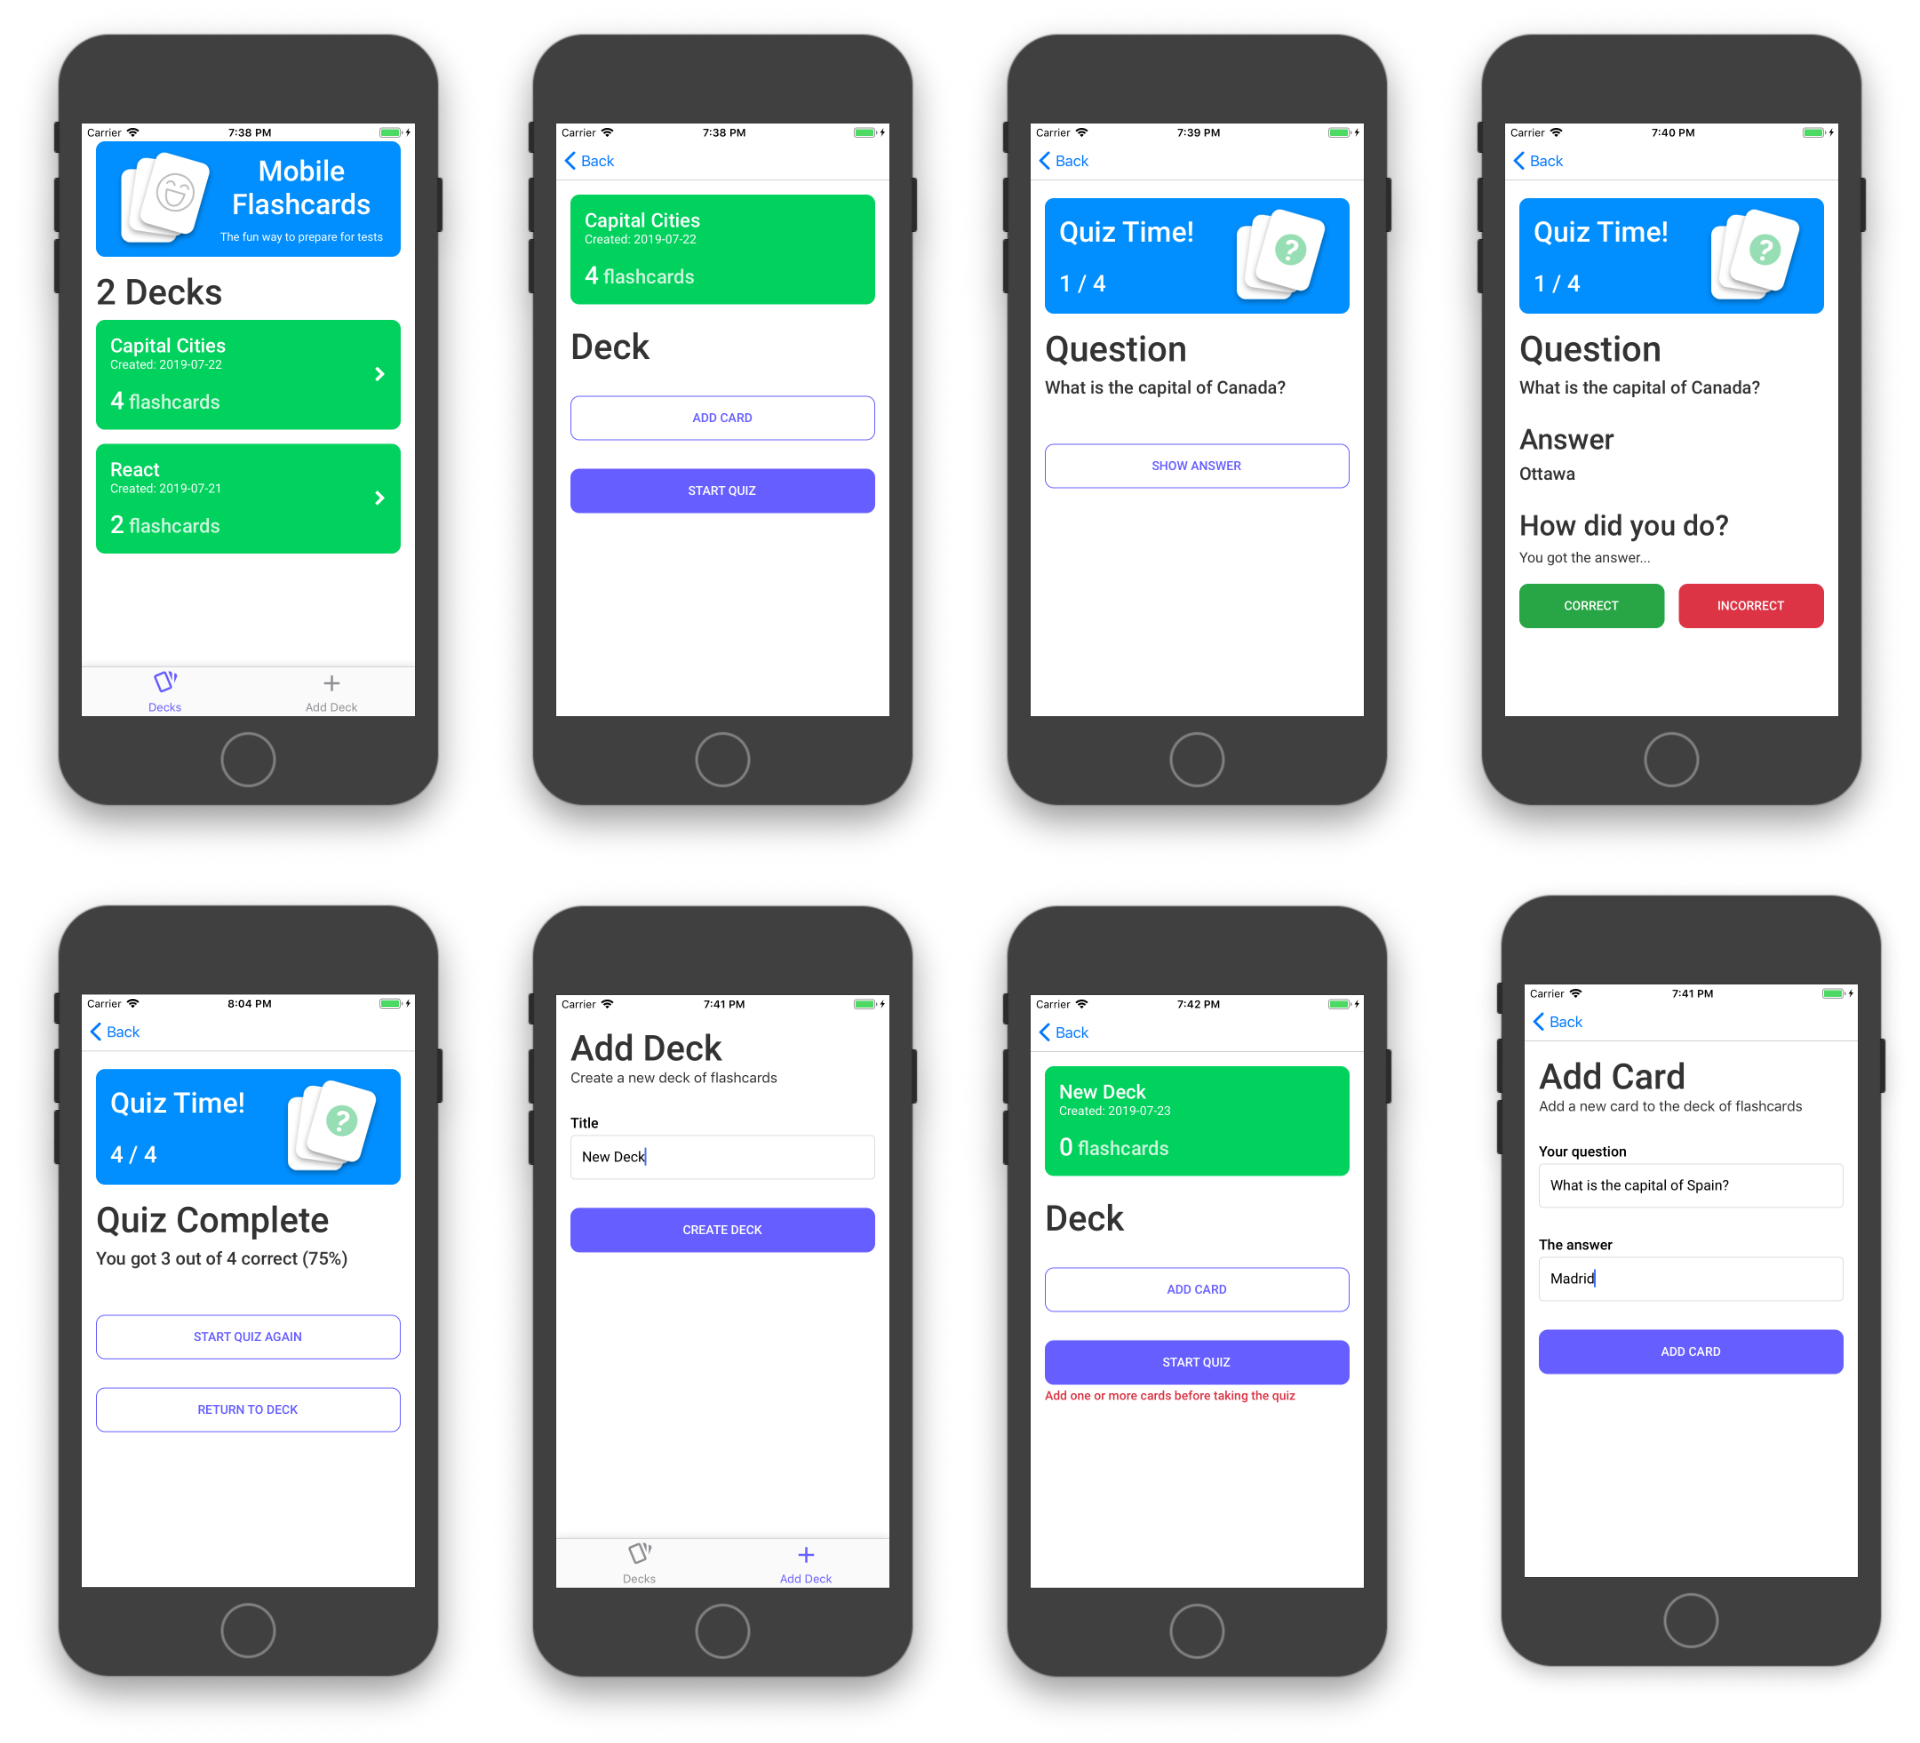
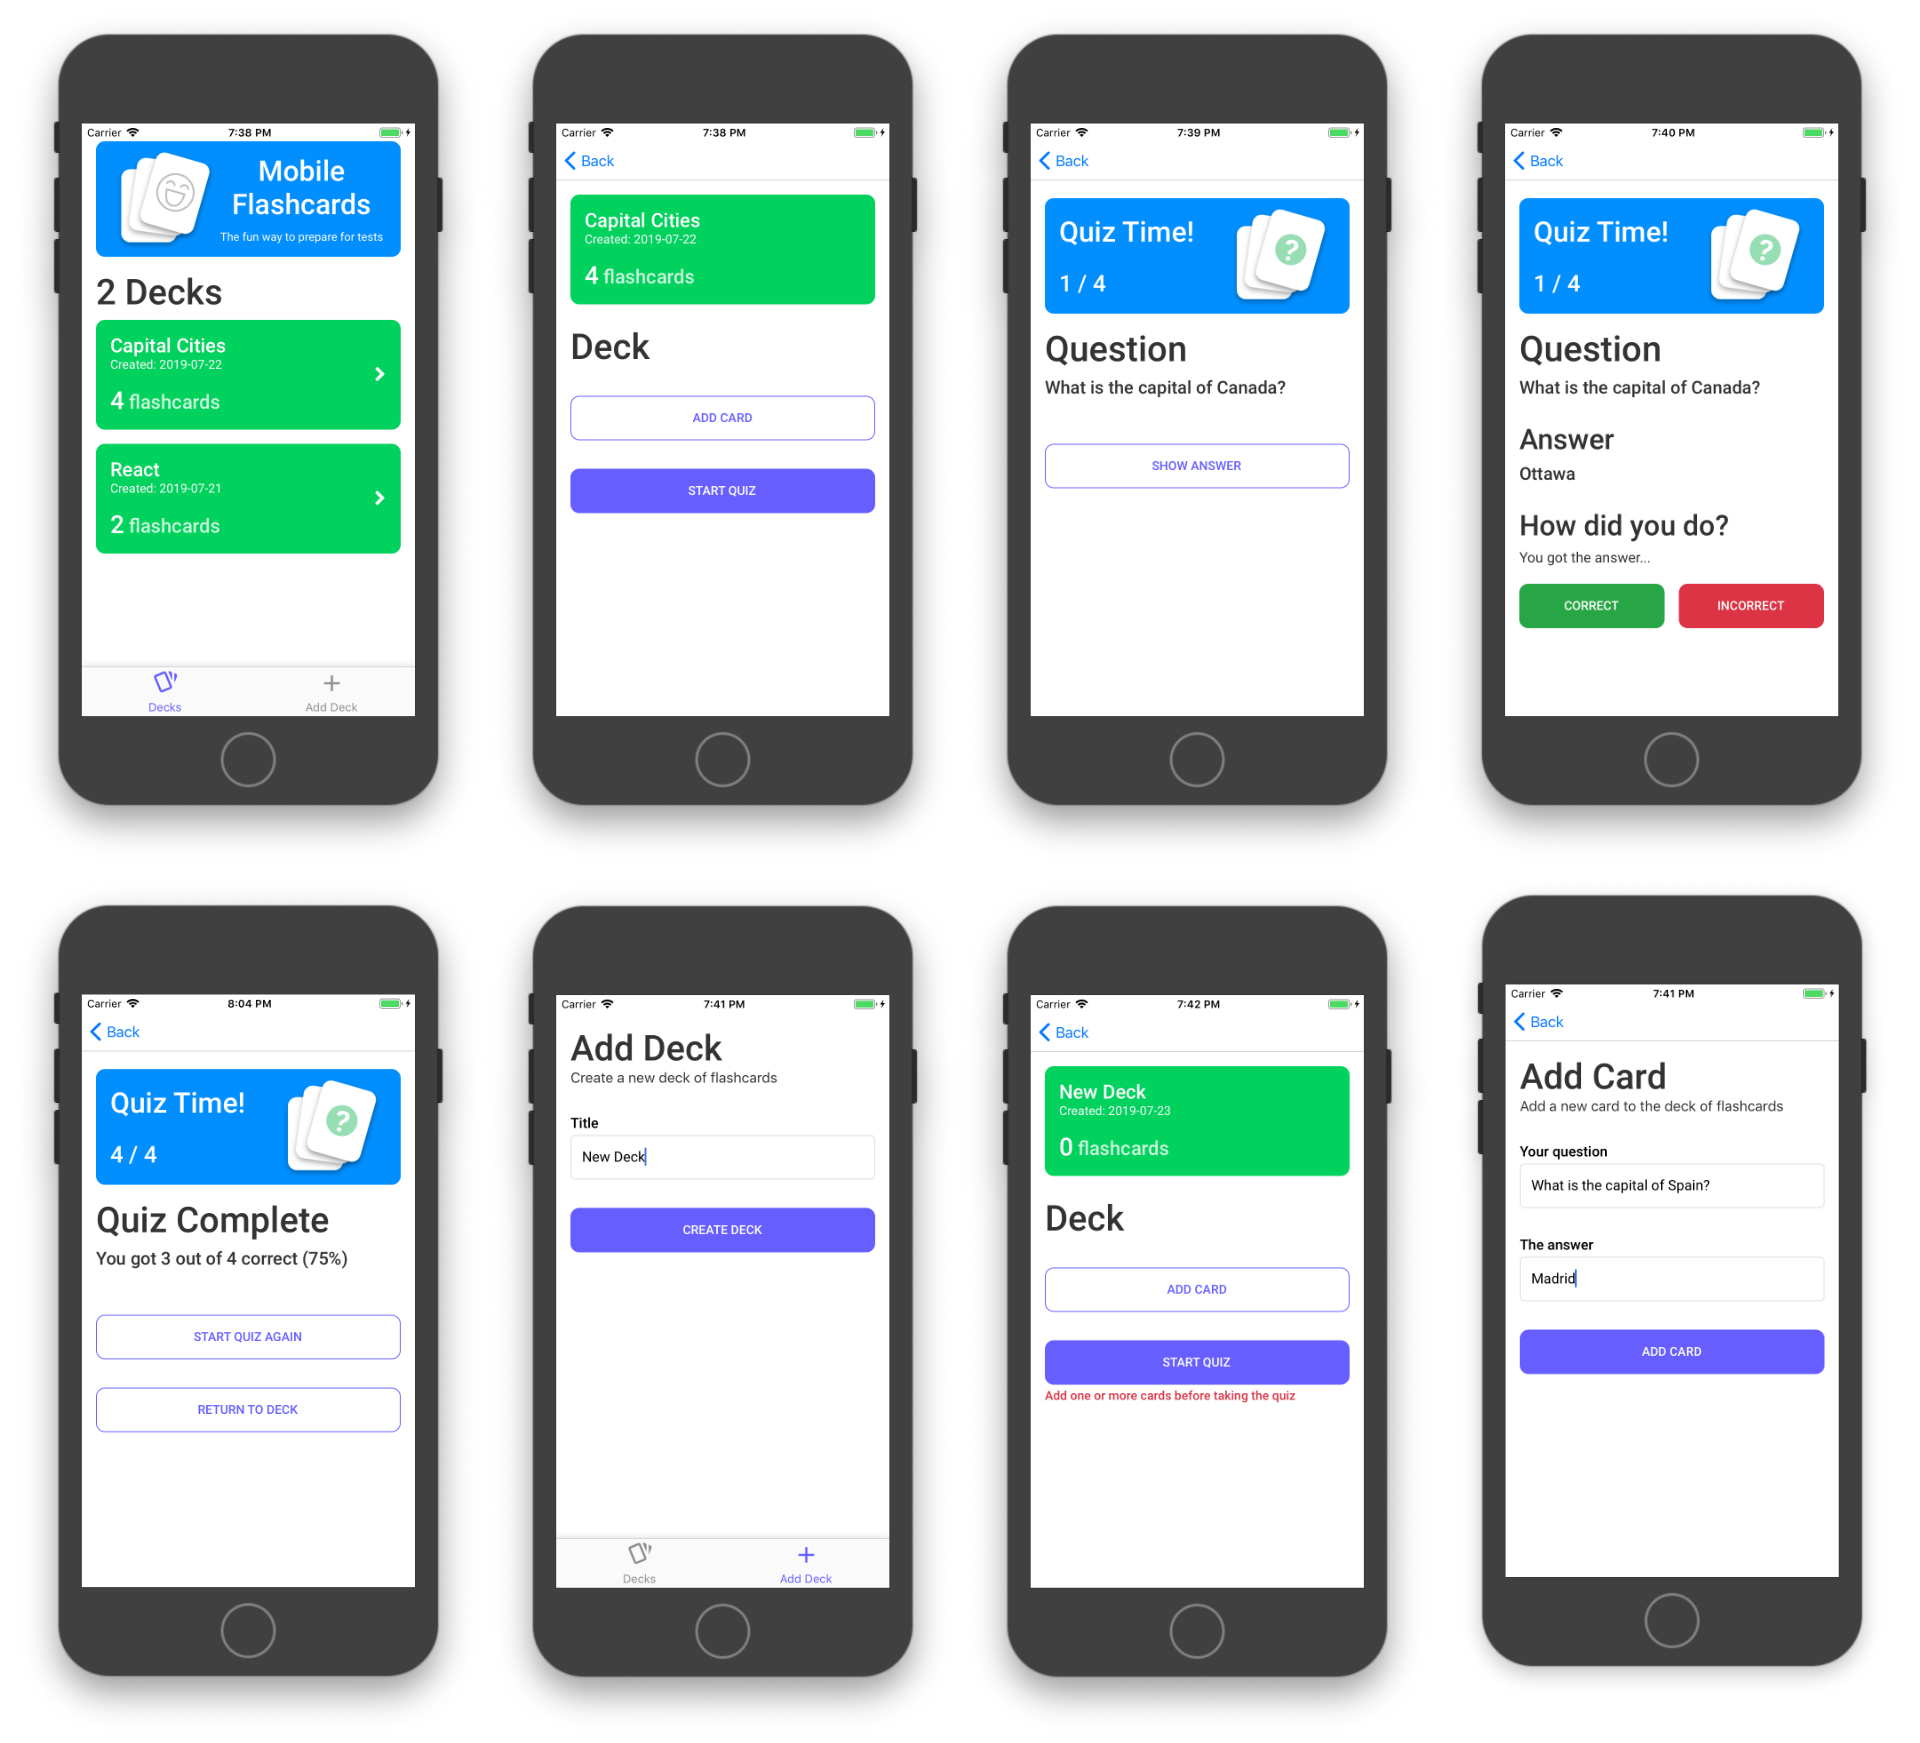
Minor styling tweaks

Changed region(s): [[0.75, 0.5267, 1.0, 0.9604], [0.9375, 0.4957, 0.9688, 0.5267], [0.7812, 0.4957, 0.8125, 0.5267]]

diff --git a/utils/api.js b/utils/api.js
@@ -9,8 +9,8 @@ const DECKS_STORAGE_KEY = 'MobileFlashcards:Decks';
 export async function fetchAllDecks() {
 
   // TEMP: Clear async storage so always using dummy data
-  const keys = await AsyncStorage.getAllKeys();
-  await  AsyncStorage.multiRemove(keys);
+  //const keys = await AsyncStorage.getAllKeys();
+  //await  AsyncStorage.multiRemove(keys);
 
   // Get all the decks from AsyncStorage. If there aren't any then use the dummy data
   // as the default set of decks.

diff --git a/components/HomeHeader.js b/components/HomeHeader.js
@@ -25,6 +25,7 @@ const styles = StyleSheet.create({
     flexDirection: 'row',
     justifyContent: 'center',
     alignItems: 'center',
+    marginTop: 8,
     height: 130,
     borderRadius: 10,
     backgroundColor: bgBlueLight

diff --git a/README.md b/README.md
@@ -12,7 +12,7 @@ To run the app, follow the steps below:
 
 
 ## Device Support
-The app has been tested on the following devices
+The app has been tested on the following devices:
 
  - iPhone 6
  - iOS Simulator
